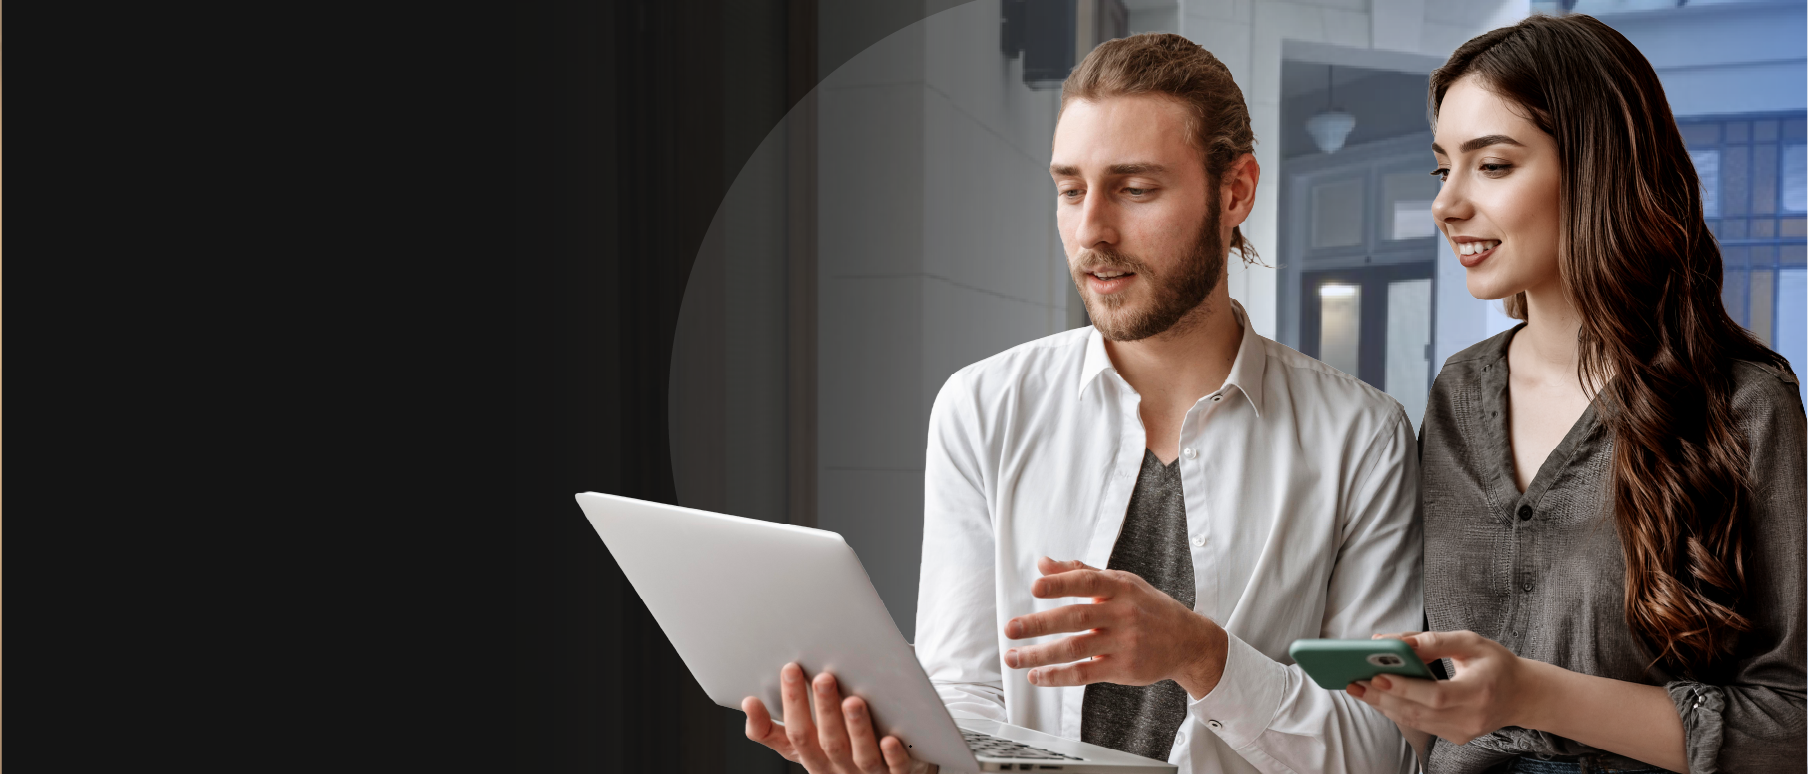
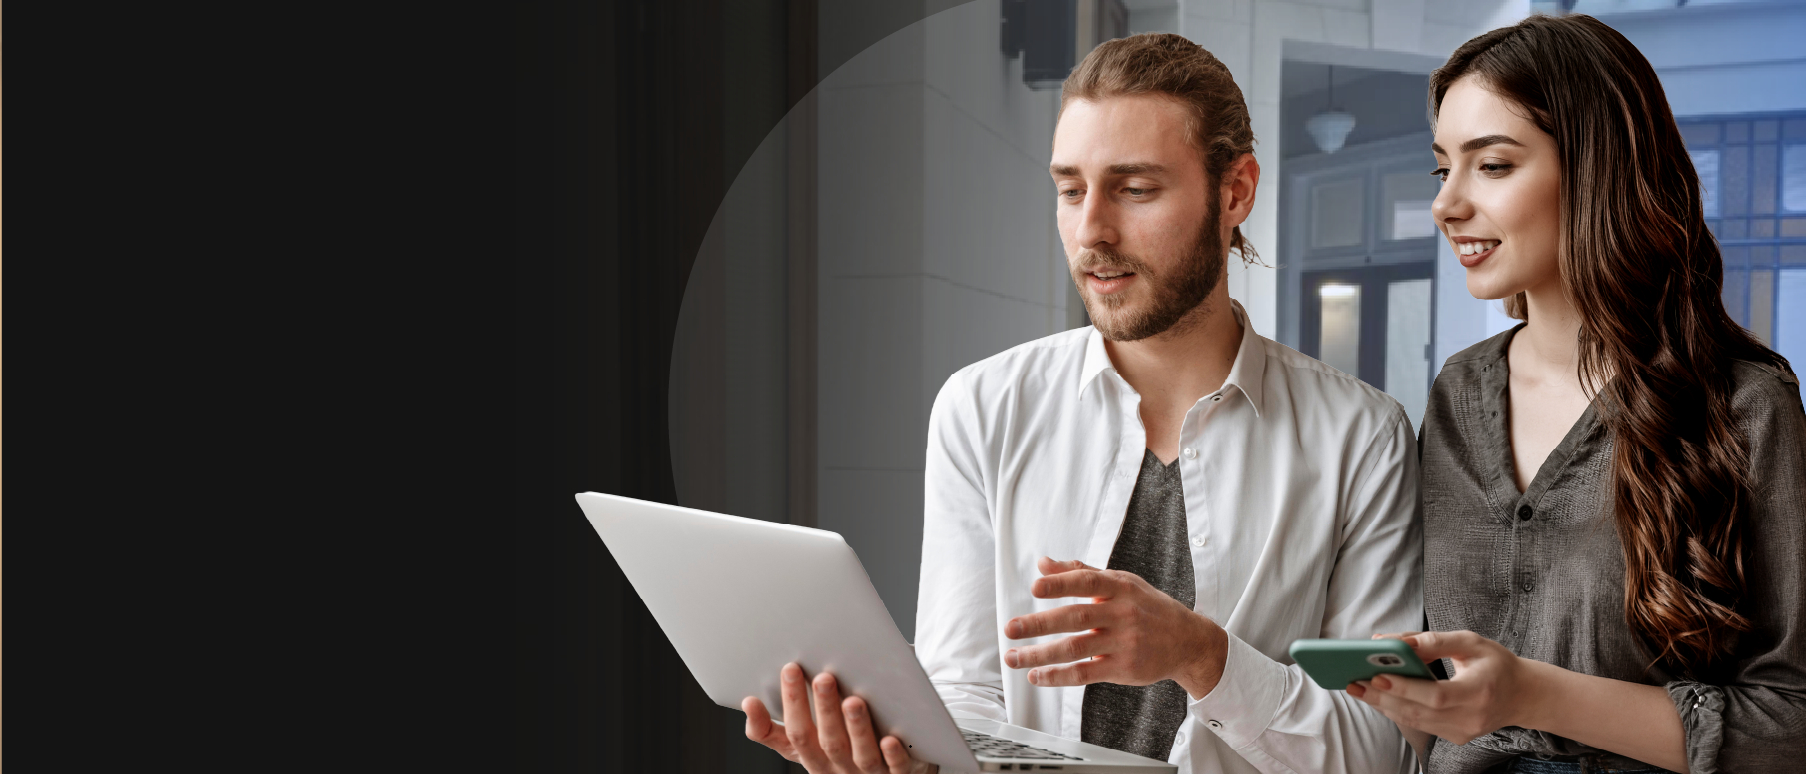
0.0.4 Procesamiento 365

diff --git a/src/styles/global.css b/src/styles/global.css
@@ -6,8 +6,16 @@
   --creden-azul: #23246c;
 }
 
+body {
+  font-family: "Poppins", sans-serif;
+}
+
 .creden-green {
   color: var(--creden-green);
+}
+
+.bg-creden-green {
+  background-color: var(--creden-green);
 }
 
 .creden-azul {